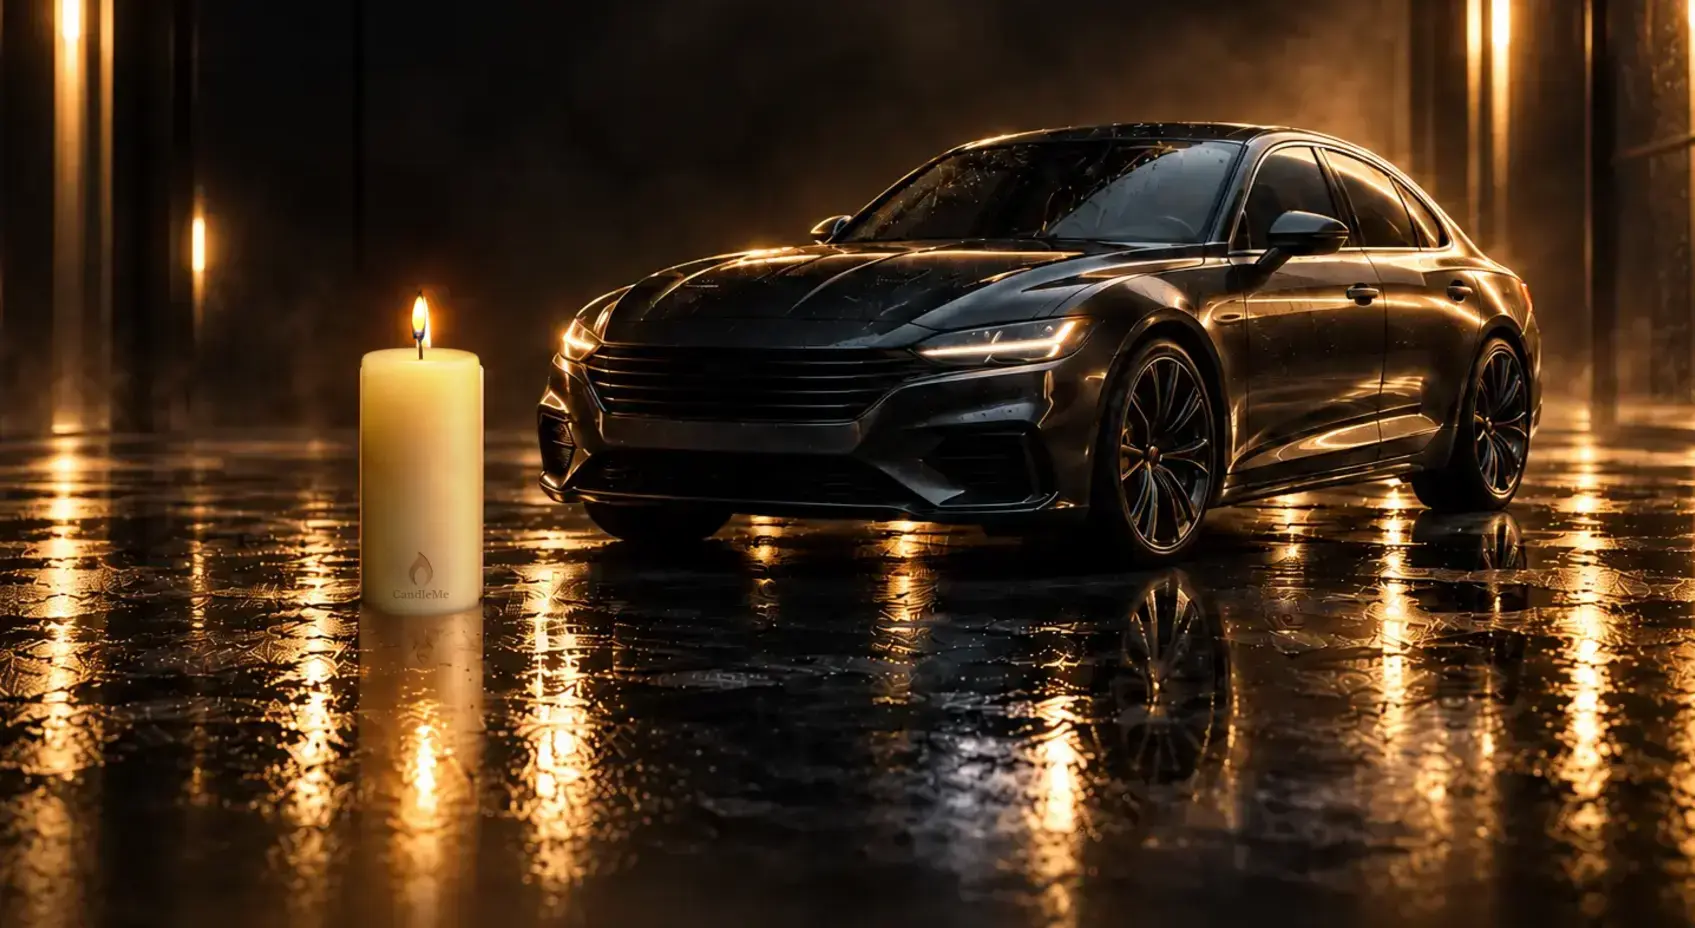
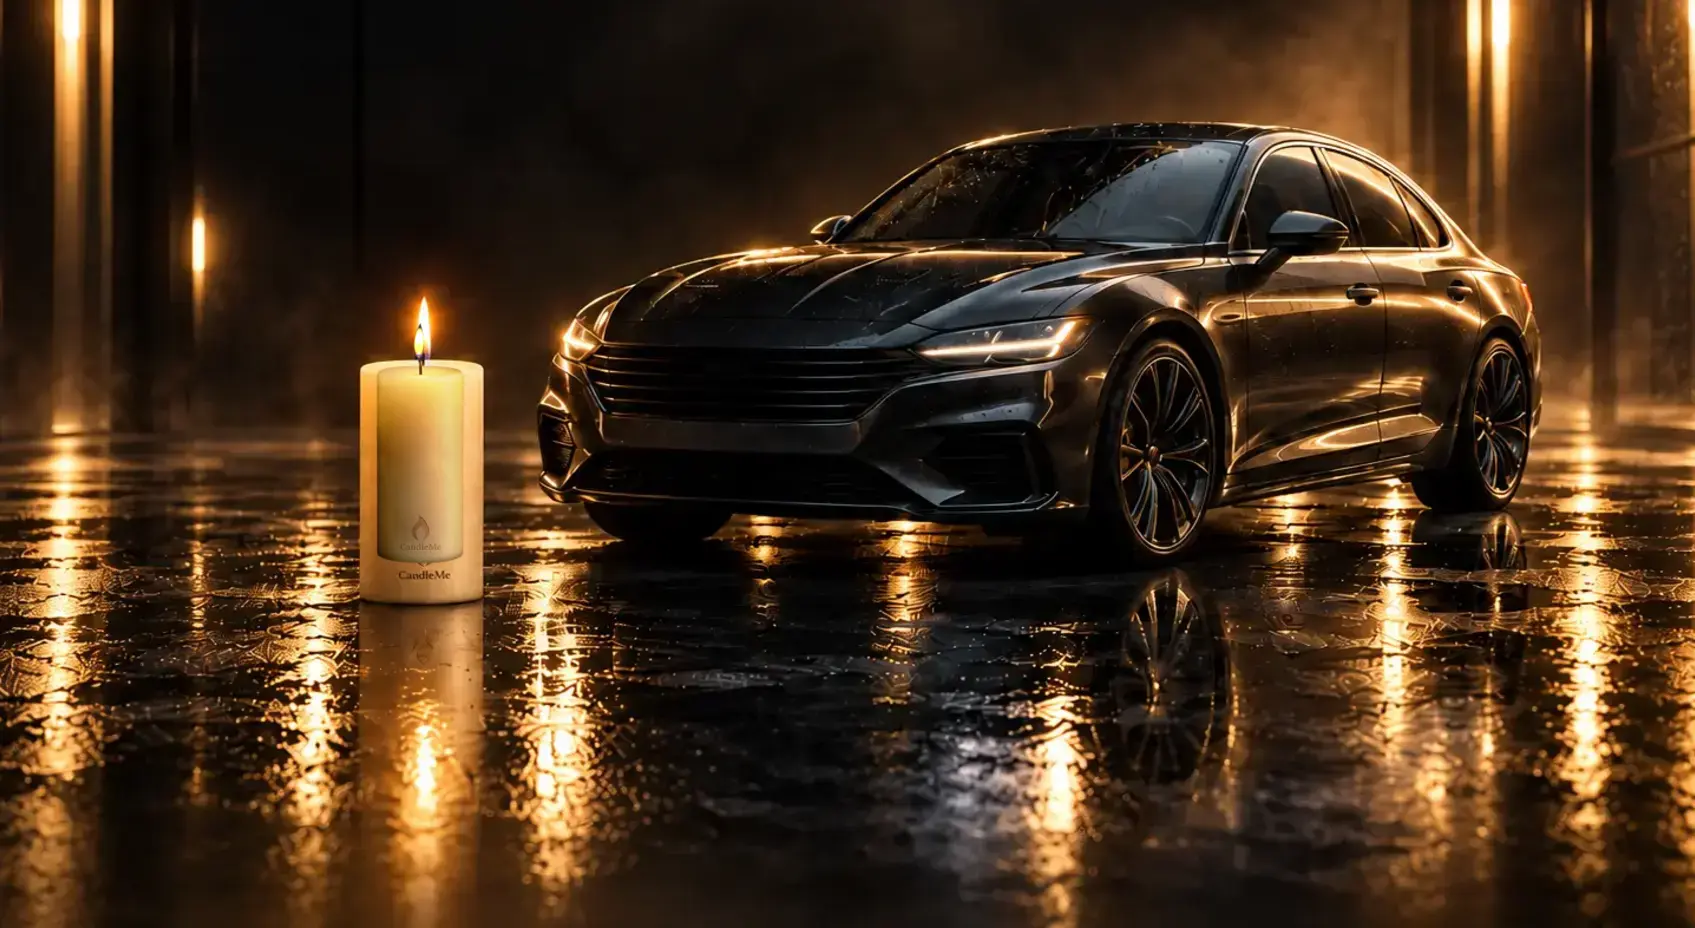
Polish car wash hero typography and spacing

Changed region(s): [[0.2147, 0.3125, 0.3068, 0.6875]]

diff --git a/v2/car-wash.html b/v2/car-wash.html
@@ -27,6 +27,12 @@ body.page-car-wash figure.car-wash-hero .car-wash-hero-scene{content:url(images/
 body.page-car-wash figure.car-wash-hero .car-wash-hero-candle{position:absolute;z-index:1;left:25%;bottom:9%;width:11%;height:auto;max-height:42%;object-fit:contain;object-position:center bottom;filter:drop-shadow(0 8px 10px rgba(0,0,0,.45))}
 body.page-car-wash .car-wash-hero-slogan{color:#fff}
 .hero-proof{font-weight:500!important}
+body.page-car-wash figure.car-wash-hero{overflow:visible;margin-top:120px}
+body.page-car-wash figure.car-wash-hero .car-wash-hero-slogan{top:-105px;left:6%;right:6%;font-size:clamp(1.15rem,2.2vw,1.7rem);line-height:1.3;text-shadow:none}
+body.page-car-wash .hero-proof{margin:34px 0 0;padding:25px 30px;border:1px solid rgba(222,174,72,.45);border-radius:18px;background:linear-gradient(135deg,rgba(42,31,12,.72),rgba(18,18,15,.92));color:#f5f0e8!important;font-size:clamp(1.05rem,1.6vw,1.35rem);line-height:1.55;text-align:center;letter-spacing:.01em}
+body.page-car-wash #problem .narrow>p{font-size:clamp(1.08rem,1.7vw,1.35rem);line-height:1.65;max-width:980px;margin-left:auto;margin-right:auto}
+body.page-car-wash #problem .narrow>p:first-of-type{font-size:clamp(1.2rem,2vw,1.55rem);line-height:1.5}
+body.page-car-wash .setup-heading{font-size:clamp(2.2rem,4vw,3.4rem);margin-bottom:42px}
 body.page-car-wash .v2-emphasis span{color:#f5f0e8;font-weight:400}
 body.page-car-wash .car-wash-services{display:grid;grid-template-columns:repeat(2,minmax(0,1fr));gap:10px;list-style:none;margin:22px 0 26px;padding:0}
 body.page-car-wash .car-wash-services li{position:relative;padding:16px 14px 16px 48px;border:1px solid rgba(222,174,72,.55);border-radius:14px;background:linear-gradient(135deg,rgba(42,31,12,.78),rgba(16,16,16,.9));color:#f5f0e8;font:500 1rem/1.3 Arial,sans-serif}
